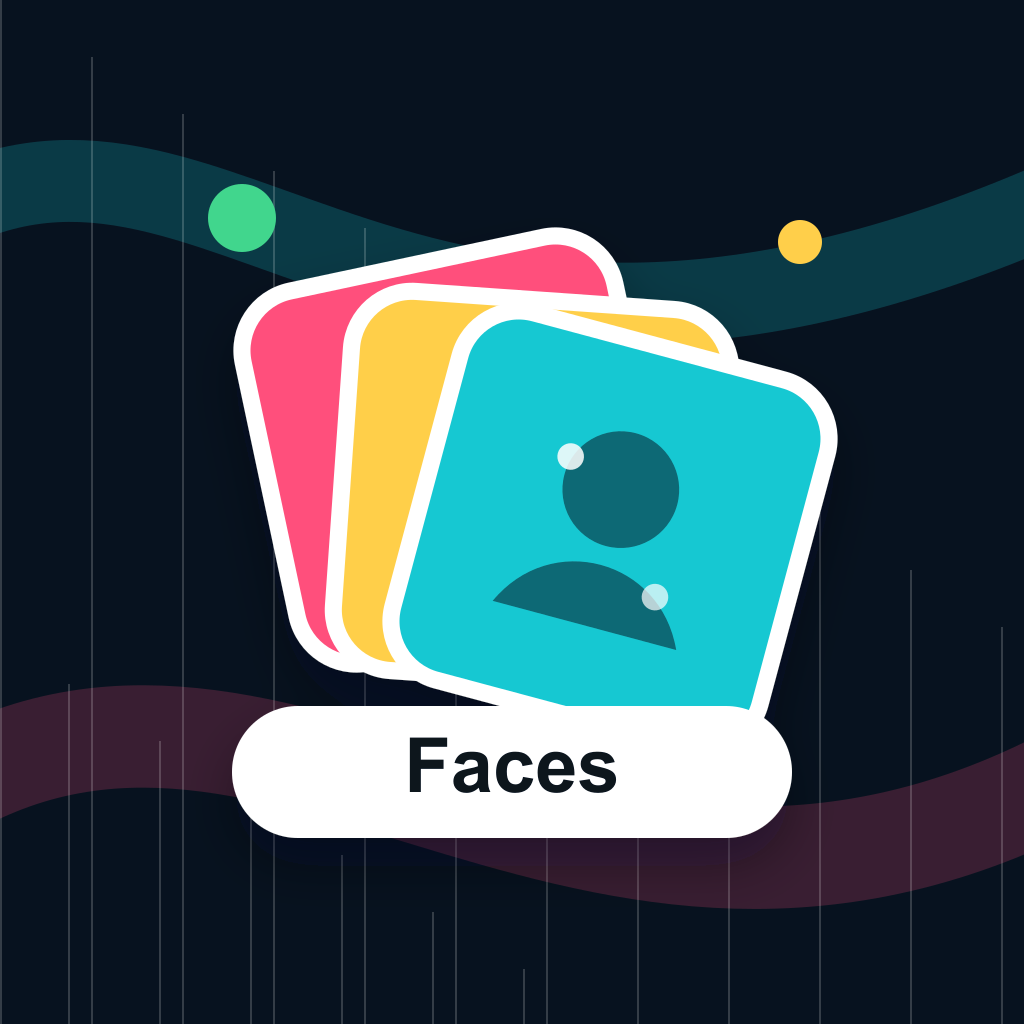
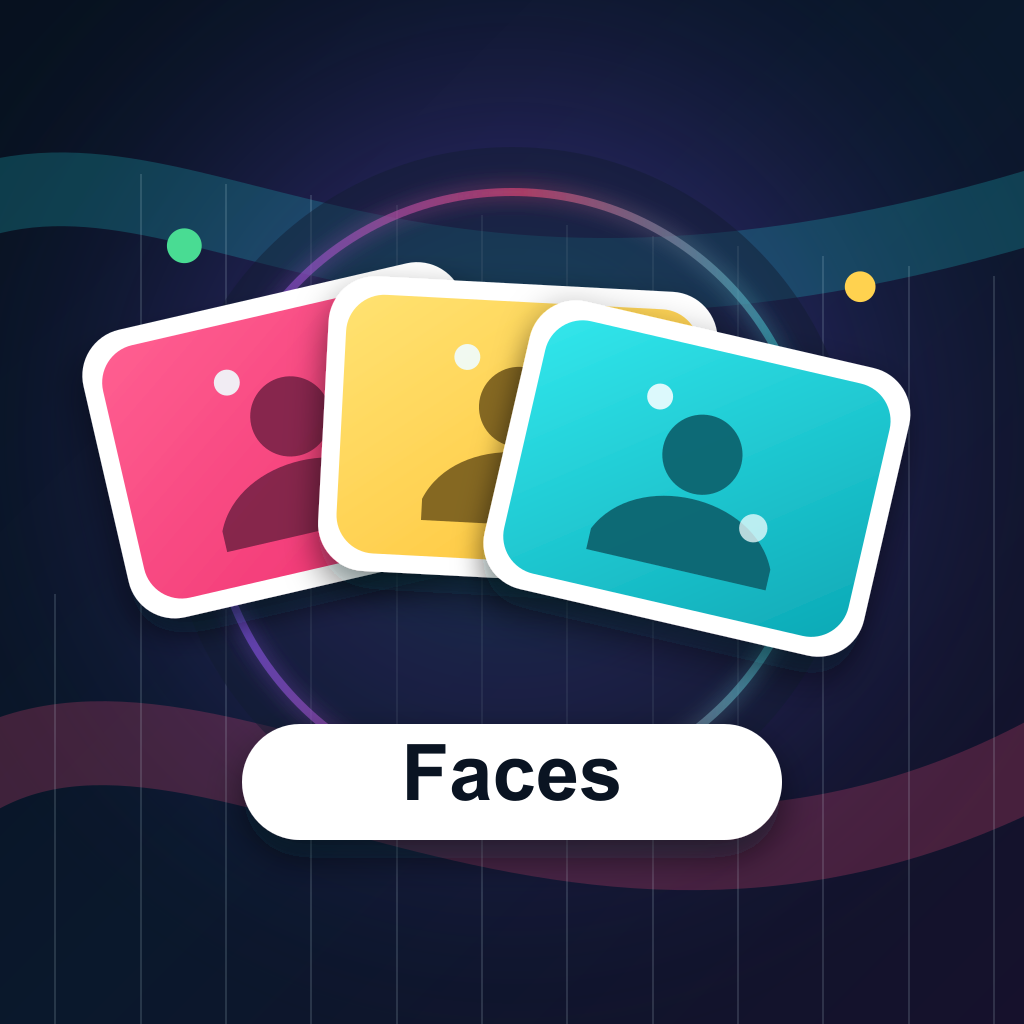
Refresh mini app artwork

diff --git a/web/app/.well-known/farcaster.json/route.ts b/web/app/.well-known/farcaster.json/route.ts
@@ -12,19 +12,19 @@ export function GET() {
     ...(accountAssociation ? { accountAssociation } : {}),
     miniapp: {
       version: "1",
-      name: "Shakezz Hub",
+      name: "Faces",
       iconUrl: `${appUrl}/miniapp/icon.png`,
       homeUrl: appUrl,
       imageUrl: `${appUrl}/miniapp/embed.png`,
-      buttonTitle: "Open hub",
+      buttonTitle: "Browse faces",
       splashImageUrl: `${appUrl}/miniapp/splash.png`,
       splashBackgroundColor,
-      subtitle: "Faces ops",
-      description: "Private Faces operations dashboard.",
+      subtitle: "PFP eras saved",
+      description: "Browse public profile picture history across the social web.",
       primaryCategory: "social",
-      tags: ["dashboard", "farcaster", "pfp", "ops"],
-      ogTitle: "Shakezz Hub",
-      ogDescription: "Private Faces operations dashboard.",
+      tags: ["farcaster", "pfp", "profiles", "history"],
+      ogTitle: "Faces",
+      ogDescription: "Profile picture history across the social web.",
       ogImageUrl: `${appUrl}/miniapp/embed.png`,
       webhookUrl: `${appUrl}/api/miniapp/events`,
       requiredCapabilities: ["actions.ready", "actions.addMiniApp"]